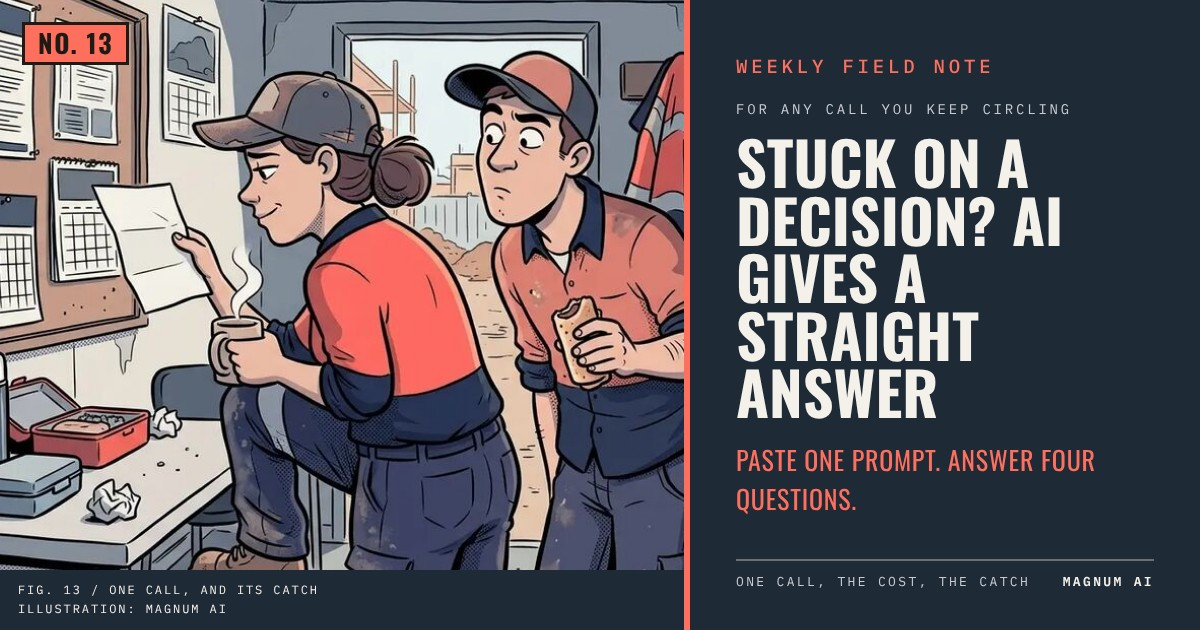
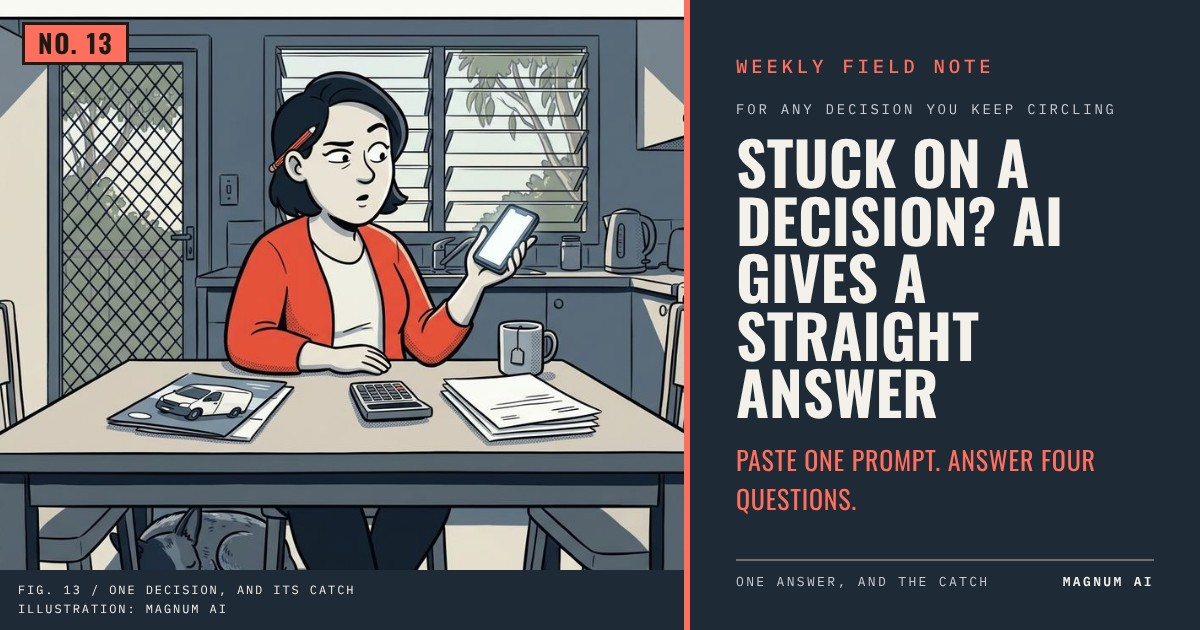
Field Note 13, Deciding: publish at James's word, own card picture, decision not call
Claude-Session: https://claude.ai/code/session_01F8XX6o5R5CWfwEwwc3uDpR

diff --git a/newsletter/field-note-13-deciding.html b/newsletter/field-note-13-deciding.html
@@ -8,7 +8,7 @@
 <link rel="apple-touch-icon" href="../assets/logos/apple-touch-icon.png">
 
 <title>Weekly Field Note No. 13 · Deciding · Magnum AI</title>
-<meta name="description" content="A copy-and-paste prompt for any big call you keep going back and forth on. It asks four questions, then gives you a clear recommendation and its catch.">
+<meta name="description" content="A copy-and-paste prompt for any big decision you keep going back and forth on. It asks four questions, then gives you a clear recommendation and its catch.">
 <meta name="author" content="Magnum AI">
 <link rel="canonical" href="https://webes77.github.io/magnum-guides/newsletter/field-note-13-deciding.html">
 
@@ -16,7 +16,7 @@
 <meta property="og:type" content="article">
 <meta property="og:site_name" content="Magnum AI · Weekly Field Note">
 <meta property="og:title" content="Weekly Field Note No. 13 · Stuck on a decision? AI gives a straight answer">
-<meta property="og:description" content="A prompt for any big decision, at work or at home: four questions, then a clear call, its cost and its catch.">
+<meta property="og:description" content="A prompt for any big decision, at work or at home: four questions, then a clear recommendation, its cost and its catch.">
 <meta property="og:url" content="https://webes77.github.io/magnum-guides/newsletter/field-note-13-deciding.html">
 <meta property="og:image" content="https://webes77.github.io/magnum-guides/assets/thumbnails/field-note-13-deciding.jpg">
 <meta property="og:image:width" content="1200">
@@ -24,7 +24,7 @@
 <meta property="og:image:alt" content="Weekly Field Note No. 13 · Stuck on a decision? AI gives a straight answer, published by Magnum AI">
 <meta name="twitter:card" content="summary_large_image">
 <meta name="twitter:title" content="Weekly Field Note No. 13 · Stuck on a decision? AI gives a straight answer">
-<meta name="twitter:description" content="A prompt for any big decision, at work or at home: four questions, then a clear call, its cost and its catch.">
+<meta name="twitter:description" content="A prompt for any big decision, at work or at home: four questions, then a clear recommendation, its cost and its catch.">
 <meta name="twitter:image" content="https://webes77.github.io/magnum-guides/assets/thumbnails/field-note-13-deciding.jpg">
 <meta name="theme-color" content="#1F2A37">
 <meta name="color-scheme" content="light">
@@ -131,7 +131,7 @@ body{background:#1F2A37;font-family:var(--sans);color:var(--body);
         <ol class="steps">
           <li>Open Claude or ChatGPT. Any plan works. Have your options and rough numbers handy.</li>
           <li>Open a new chat, paste the prompt, fill in the two square brackets and answer its four questions. Typing or talking both work.</li>
-          <li>Read the call, then check the one fact it says would change it before you commit. About ten minutes.</li>
+          <li>Read the recommendation, then check the one fact it says would change it before you commit. About ten minutes.</li>
         </ol>
       </dd>
     </div>

diff --git a/newsletter/field-note-13-thumbnail.html b/newsletter/field-note-13-thumbnail.html
@@ -52,18 +52,18 @@ h1{font-family:'Oswald','Arial Narrow','Liberation Sans Narrow',sans-serif;font-
 <div class="card">
 
   <div class="pic">
-    <img class="ill" src="../assets/illustrations/newsletter.jpg" alt="" style="transform:scale(1.08);transform-origin:center 75%">
+    <img class="ill" src="../assets/illustrations/field-note-13.jpg" alt="">
     <div class="numtag">No. 13</div>
-    <div class="cap">Fig. 13 / One call, and its catch<br>Illustration: Magnum AI</div>
+    <div class="cap">Fig. 13 / One decision, and its catch<br>Illustration: Magnum AI</div>
   </div>
 
   <div class="panel">
     <div class="k">Weekly Field Note</div>
-    <div class="eyebrow">For any call you keep circling</div>
+    <div class="eyebrow">For any decision you keep circling</div>
     <h1>Stuck on a decision? AI gives a straight answer</h1>
     <div class="kicker">Paste one prompt. Answer four questions.</div>
     <div class="foot">
-      <span>One call, the cost, the catch</span>
+      <span>One answer, and the catch</span>
       <b>Magnum AI</b>
     </div>
   </div>

diff --git a/notes/field-note-log.md b/notes/field-note-log.md
@@ -12,7 +12,8 @@ Field Note was worth having, which is the thing to watch over the first month.
 ## 2026-11-11
 
 Issue 13, Deciding, at `newsletter/field-note-13-deciding.html`, built on the
-branch `field-note/2026-11-11` and NOT merged. Two topics each failed the
+branch `field-note/2026-11-11` and not merged by the run (published later the
+same day, see below). Two topics each failed the
 Step 8B value test three rounds running, so under Step 8B nothing reached
 main and James was emailed "needs a fix". Every reviewer this week said it
 had no Agent tool, so every cold run was the reviewer running the filled-in
@@ -67,6 +68,15 @@ missed a clinic. Those three fixes are on the branch and untested: headline
 names raising prices, buying equipment, taking on a worker or buying a car,
 and the WhatsApp line below. Cold runs invented no figure in any round; the
 one risk named was a model quoting super or penalty rates.
+
+Published 11 Nov at James's word, after the run. Two edits before it went
+live. Reader-facing "call" became "decision" or "recommendation" in the
+preview description, step three and the card, because a WhatsApp reader takes
+"call" as a phone call (round three's own finding); "THE CALL" inside the
+prompt stays. And the card carries its own cartoon, made in a chat session
+(`assets/illustrations/field-note-13.jpg`: an owner at the kitchen table with a
+van brochure, the paperwork, a cold tea and a dog asleep underneath), not the
+stand-in. Shape check, style checker and contrast PASS.
 
 Words around the prompt: under 170, shape check PASS. Why it works: the
 mechanic who tells you what he'd do if it were his car. 3.07 phone screens

diff --git a/notes/field-note-topics.md b/notes/field-note-topics.md
@@ -35,7 +35,7 @@ The topic is a starting point. Build the best prompt for it to the standards in
 `notes/prompt-review-standards.md`. Use a shelf card when one fits; otherwise
 write the prompt fresh and list it in the email as a card for the shelf.
 
-The rotation stands at: last issue was group C (issue 13, built on its branch, not live). Next is group D. Topic 14 was tried first on 11 Nov and dropped after three value-test rounds; it stays next.
+The rotation stands at: last issue was group C (issue 13). Next is group D. Topic 14 was tried first on 11 Nov and dropped after three value-test rounds; it stays next.
 
 ## A. Push what AI can do (it works on your email, files or calendar)
 
@@ -59,7 +59,7 @@ The rotation stands at: last issue was group C (issue 13, built on its branch, n
 ## C. Think and decide better
 
 14. next. Research anything properly: what's proven, what's just claimed, and where it came from.
-15. done 13 (on its branch, not live). Make any big decision: your options weighed against what matters to you.
+15. done 13. Make any big decision: your options weighed against what matters to you.
 16. next. Learn any skill in seven days, with a plan that tests you.
 17. next. Explain any document you don't understand, plus what to ask next.
 18. next. Read anything before you sign it: the traps, in plain words.
